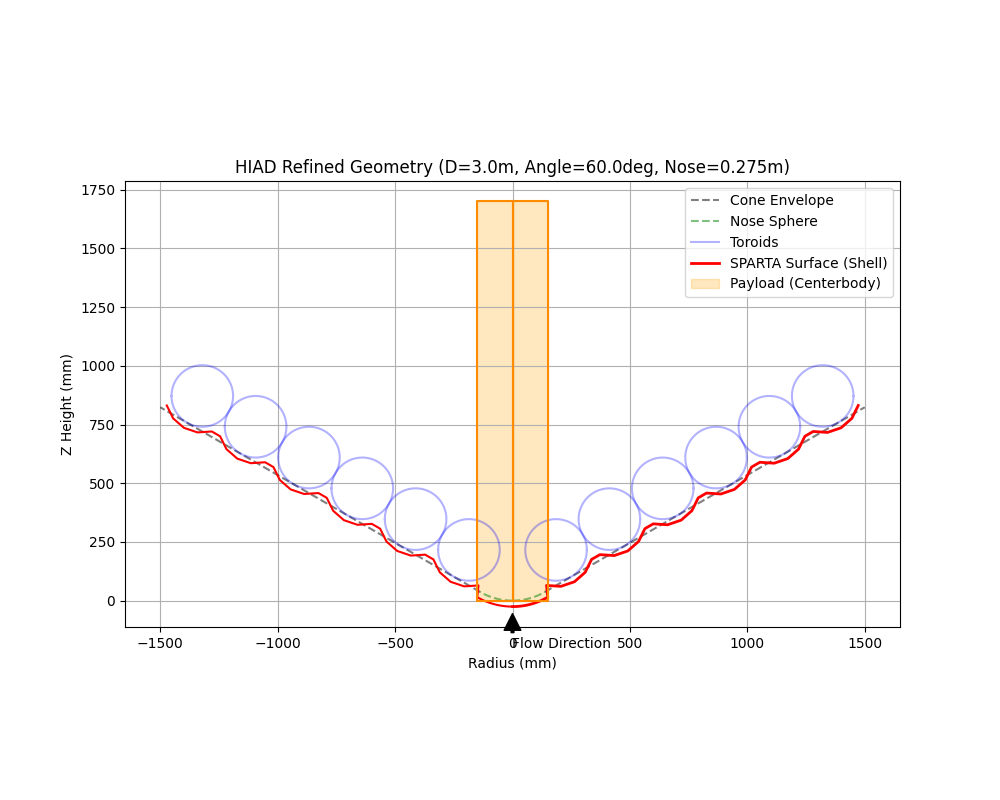
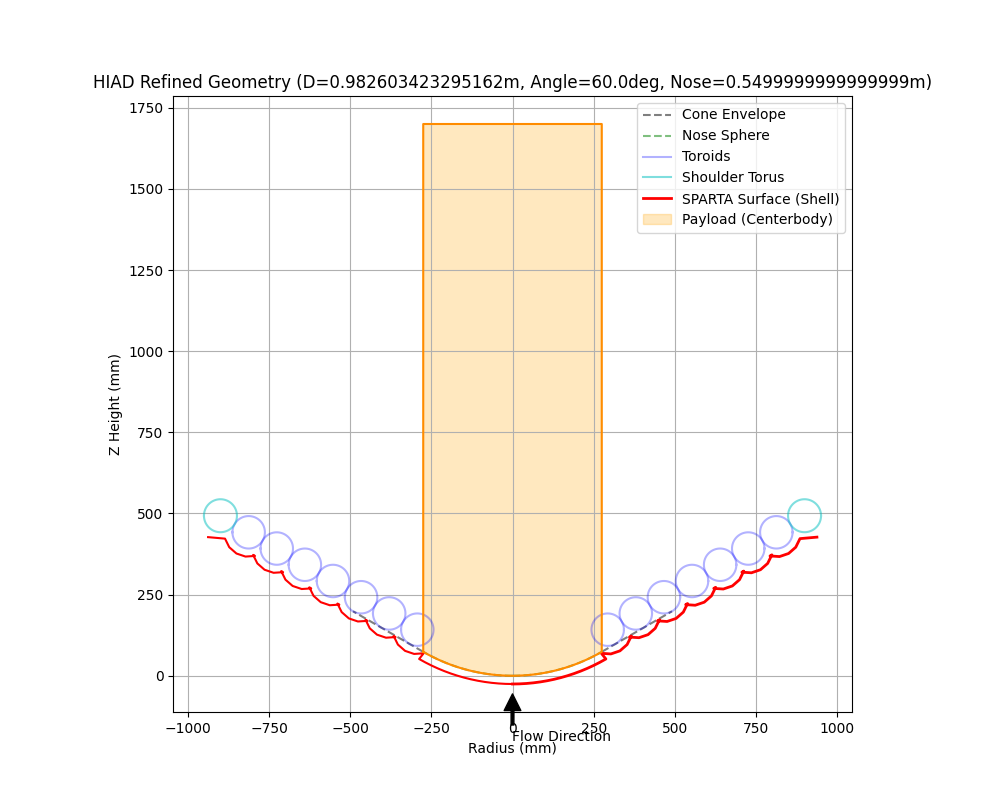
umm

diff --git a/Arch.md b/Arch.md
@@ -116,7 +116,7 @@ The geometry engine has been refactored to align with the **"MDAO of Inflatable 
 *   **Angle Definition:** The half-cone angle $\theta_c$ is measured from the **vertical axis of symmetry**. 
 *   **Blunt Body Tangency:** The spherical nose radius $r_N$ is calculated to ensure a perfectly tangent transition to the conical shell exactly at the payload radius $r_{pay}$ (MDAO Eq 3.4):
     $$r_N = \frac{r_{pay}}{\cos(\theta_c)}$$
-*   **Payload Positioning:** The payload is modeled as a cylindrical centerbody situated at the nose axis ($Z=0$), extending upward ($+Z$) into the concave aftbody/wake region of the HIAD shield. This perfectly matches the physical layout of the IRVE-3 baseline where inflatable rings wrap outward around the central payload.
+*   **Payload Positioning:** The payload is modeled as a square/rectangular centerbody situated at the nose axis ($Z=0$), extending upward ($+Z$) into the concave aftbody/wake region of the HIAD shield. This perfectly matches the physical layout of the IRVE-3 baseline where inflatable rings wrap outward around the central payload.
 *   **Toroid Packing:** Toroids are stacked along the cone slant with the first torus center offset by $r_t$ from the tangency point.
 
 ### 2. Validation Case: IRVE-3